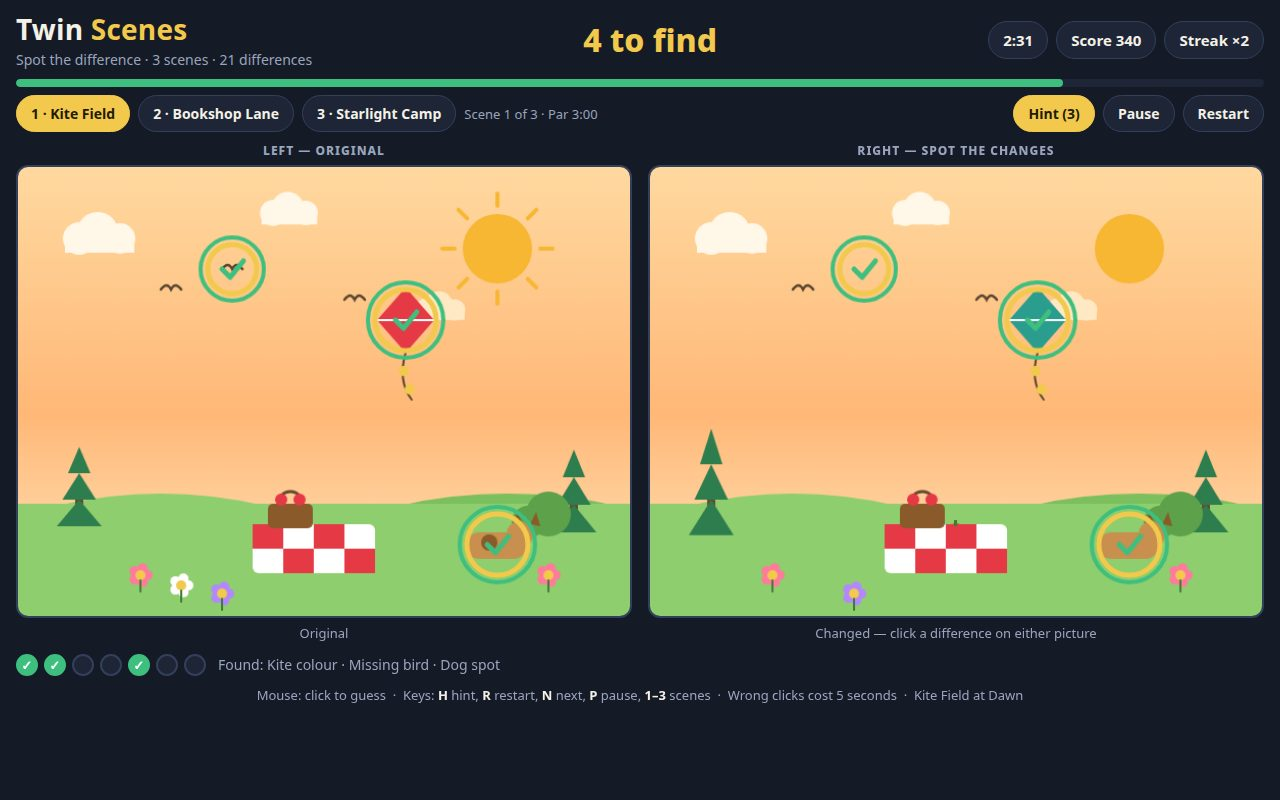
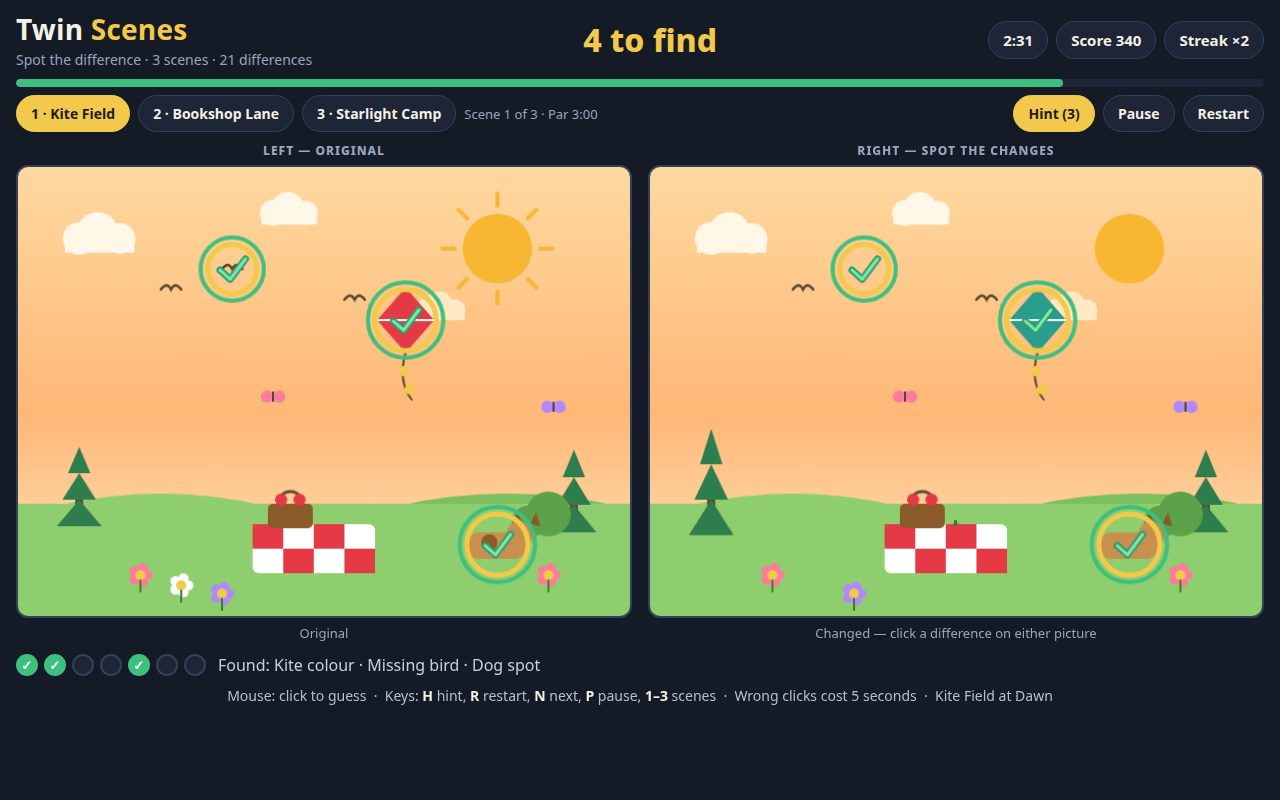
Polish from vision second-opinion: bolder found checks, brighter HUD text, butterflies in Kite Field

diff --git a/game/src/render.js b/game/src/render.js
@@ -18,15 +18,23 @@ export function drawFoundRing(ctx, x, y, r) {
   ctx.beginPath();
   ctx.arc(x, y, r + 7, 0, Math.PI * 2);
   ctx.stroke();
-  // Green check in the middle of the ring.
-  ctx.strokeStyle = '#3fbf7f';
-  ctx.lineWidth = 5;
+  // Green check in the middle of the ring, drawn bold so it still reads as
+  // a check (never an X) when the screenshot is shrunk for the judge.
+  ctx.strokeStyle = '#2f9e68';
+  ctx.lineWidth = 7;
   ctx.lineCap = 'round';
   ctx.lineJoin = 'round';
   ctx.beginPath();
-  ctx.moveTo(x - 10, y);
-  ctx.lineTo(x - 2, y + 8);
-  ctx.lineTo(x + 11, y - 8);
+  ctx.moveTo(x - 12, y + 1);
+  ctx.lineTo(x - 2, y + 10);
+  ctx.lineTo(x + 13, y - 10);
+  ctx.stroke();
+  ctx.strokeStyle = '#7fe6ae';
+  ctx.lineWidth = 3;
+  ctx.beginPath();
+  ctx.moveTo(x - 12, y + 1);
+  ctx.lineTo(x - 2, y + 10);
+  ctx.lineTo(x + 13, y - 10);
   ctx.stroke();
   ctx.restore();
 }

diff --git a/game/src/scenes.js b/game/src/scenes.js
@@ -131,6 +131,16 @@ function drawKiteField(ctx, changed) {
   if (!changed.has('bird-gone')) bird(ctx, 210, 100, '#5a4632');
   bird(ctx, 330, 130, '#5a4632');
 
+  // Butterflies, the same on both panels: small life that makes the field
+  // worth a second look without hiding any difference.
+  for (const [bx, by, wing] of [[250, 225, '#ff7b9c'], [525, 235, '#b388ff']]) {
+    ctx.fillStyle = wing;
+    circle(ctx, bx - 6, by, 6); ctx.fill();
+    circle(ctx, bx + 6, by, 6); ctx.fill();
+    ctx.fillStyle = '#5a4632';
+    ctx.fillRect(bx - 1, by - 5, 2, 10);
+  }
+
   // Rolling hills and grass.
   ctx.fillStyle = '#8fce6e';
   ctx.beginPath(); ctx.ellipse(140, 470, 260, 150, 0, Math.PI, Math.PI * 2); ctx.fill();

diff --git a/game/index.html b/game/index.html
@@ -45,8 +45,8 @@
     display: inline-flex; align-items: center; justify-content: center;
     font-size: 13px; font-weight: 800; color: #fff; background: #1d2536; }
   .dot.found { background: #3fbf7f; border-color: #3fbf7f; }
-  #foundList { color: #9aa5bd; font-size: 14px; }
-  footer.help { margin-top: 10px; color: #9aa5bd; font-size: 13px; text-align: center; }
+  #foundList { color: #c7cede; font-size: 16px; }
+  footer.help { margin-top: 10px; color: #b6bfd2; font-size: 14px; text-align: center; }
   footer.help b { color: #f4f1e6; }
   #overlay { position: fixed; inset: 0; background: rgba(10, 13, 20, 0.72);
     display: flex; align-items: center; justify-content: center; z-index: 10; }
